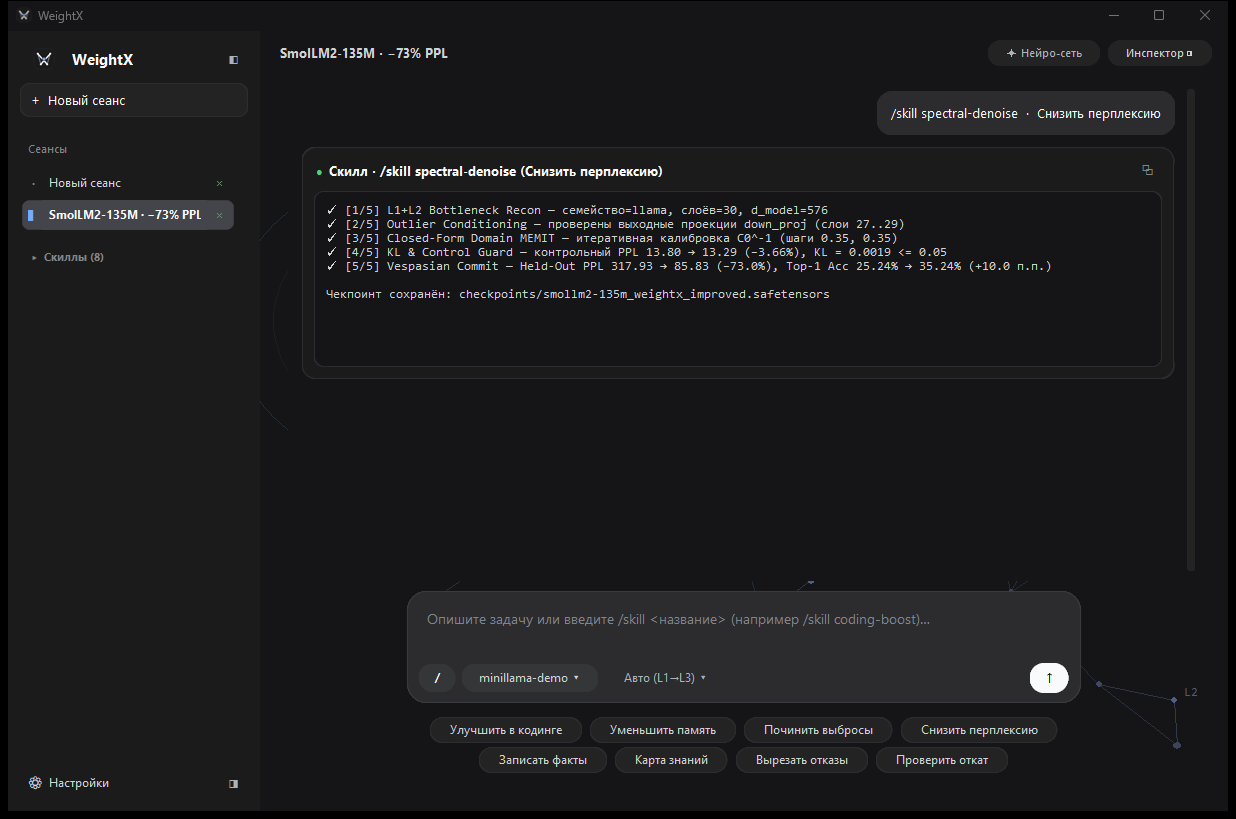
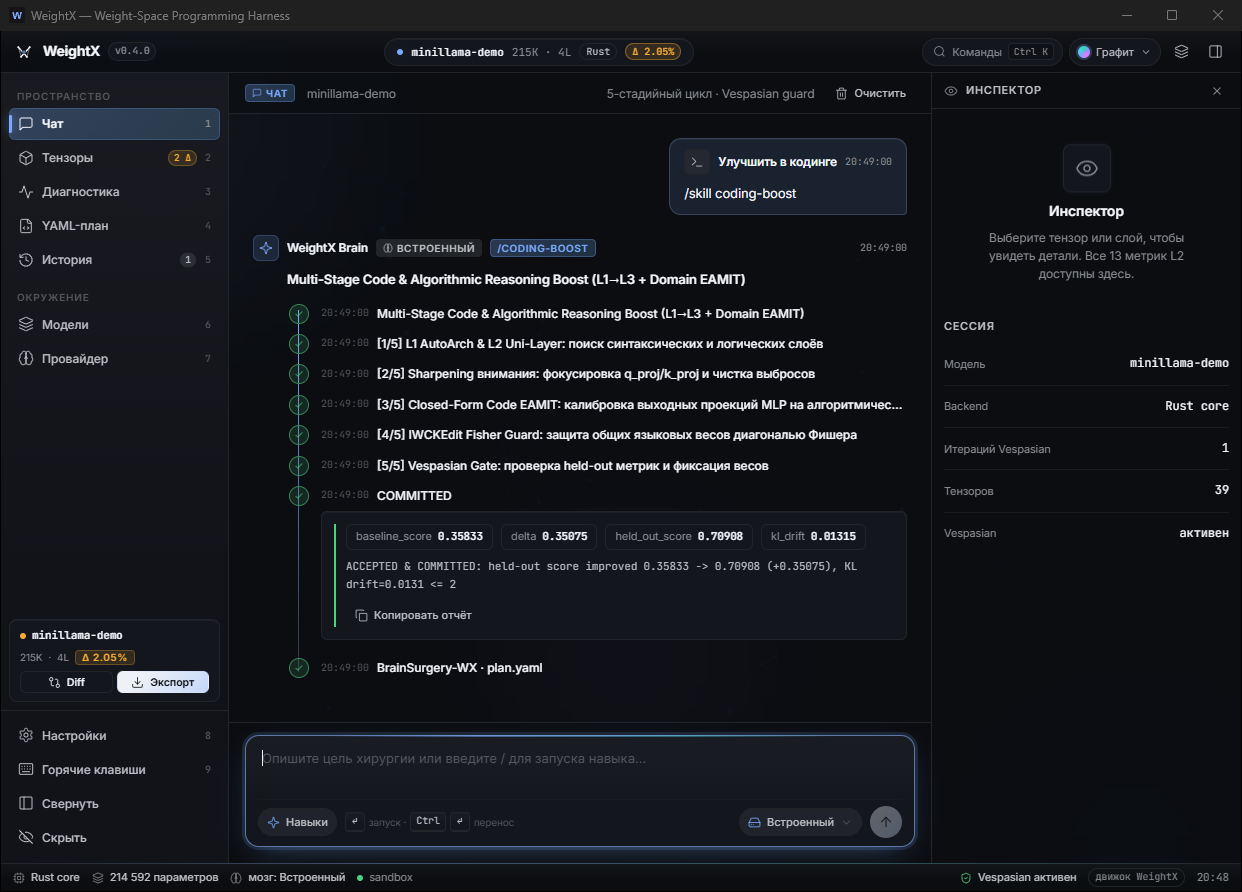
WeightX v0.4.0: hybrid Rust+PyTorch core, EAMIT & model benchmarks

diff --git a/scripts/publish_to_github.py b/scripts/publish_to_github.py
@@ -135,20 +135,33 @@ def run_git(git_exe: str, *args: str, redact: str | None = None, check: bool = T
 
 
 def ensure_github_repo(client: httpx.Client) -> dict[str, Any]:
-    """Fetch `nakoulaf4/WeightX` or create it if it does not exist yet."""
+    """Fetch `nakoulaf4/WeightX` (or create it) and keep description/topics current."""
+    desired_desc = (
+        "WeightX: Open-source Weight-Space Programming (WSP) harness in Rust & Tauri 2 + "
+        "PyTorch sidecar for safe, declarative and verified LLM weight surgery."
+    )
+    desired_topics = [
+        "rust",
+        "tauri",
+        "pytorch",
+        "llm",
+        "weight-editing",
+        "model-editing",
+        "eamit",
+        "mechanistic-interpretability",
+    ]
     r = client.get(f"{GITHUB_API}/repos/{FULL_REPO}")
     if r.status_code == 200:
         print(f"[publish] Using existing repository: https://github.com/{FULL_REPO}")
+        client.patch(f"{GITHUB_API}/repos/{FULL_REPO}", json={"description": desired_desc})
+        client.put(f"{GITHUB_API}/repos/{FULL_REPO}/topics", json={"names": desired_topics})
         return r.json()
     if r.status_code != 404:
         raise RuntimeError(f"Failed to query {FULL_REPO}: {r.status_code} {r.text}")
 
     payload = {
         "name": REPO_NAME,
-        "description": (
-            "WeightX: Open-source Weight-Space Programming (WSP) harness with DSH minimalist UI, "
-            "case-insensitive wx/weightx CLI, 8 built-in WSP skills, and Vespasian rollback."
-        ),
+        "description": desired_desc,
         "private": False,
         "has_issues": True,
         "has_wiki": False,
@@ -156,6 +169,7 @@ def ensure_github_repo(client: httpx.Client) -> dict[str, Any]:
     created = client.post(f"{GITHUB_API}/user/repos", json=payload)
     if created.status_code not in (200, 201):
         raise RuntimeError(f"Failed to create repository {FULL_REPO}: {created.status_code} {created.text}")
+    client.put(f"{GITHUB_API}/repos/{FULL_REPO}/topics", json={"names": desired_topics})
     print(f"[publish] Created repository: https://github.com/{FULL_REPO}")
     return created.json()
 

diff --git a/rust/crates/wx-cli/src/repl.rs b/rust/crates/wx-cli/src/repl.rs
@@ -1,5 +1,5 @@
 // SPDX-License-Identifier: GPL-3.0-or-later
-//! Interactive WeightX CLI REPL — DSH minimalist terminal aesthetic.
+//! Interactive WeightX CLI REPL — minimalist terminal workspace.
 
 use std::io::{BufRead, IsTerminal, Write};
 use std::sync::atomic::{AtomicBool, Ordering};

diff --git a/README.md b/README.md
@@ -11,7 +11,7 @@
 [![Python 3.10+](https://img.shields.io/badge/sidecar-Python_3.10+-blue.svg)](https://www.python.org/downloads/)
 [![Version](https://img.shields.io/badge/release-v0.4.0-7aaaff.svg)](https://github.com/nakoulaf4/WeightX/releases)
 [![Tests](https://img.shields.io/badge/tests-27_Rust_+_26_pytest-4ed17e.svg)](#testing)
-[![UI Style](https://img.shields.io/badge/UI-DSH_Minimalist-151517.svg)](#desktop-app--screenshots)
+[![Desktop](https://img.shields.io/badge/desktop-Tauri_2-7aaaff.svg)](#desktop-app--screenshots)
 
 </div>
 
@@ -25,15 +25,21 @@
 
 ## Desktop App & Screenshots
 
-WeightX Desktop follows a minimalist dark canvas (`#151517` base, `#1B1B1C` collapsible sidebar, `#2C2C2E` rounded composer card, `#F9FAFB` crisp send trigger) designed for distraction-free weight surgery with on-demand inspection drawers and ultra-compact one-click **Skill Pills**.
+WeightX Desktop (`v0.4.0`, native **Rust + Tauri 2**) ships with the **Atlas** dark canvas (`#0b0d11` base, `#13161d` surface cards, `#7aaaff` focal accents, 12 switchable themes including `Графит`, `AMOLED`, `Полярный`, `Неон`, `Аметист`), an interactive neural-network background, 9 workspace views (`Чат`, `Тензоры`, `Диагностика`, `YAML-план`, `История`, `Модели`, `Провайдер`, `Настройки`, `Горячие клавиши`), Command Palette (`Ctrl+K`), live Hugging Face Hub catalog, and a **13-metric L2 Inspector (`Ctrl+I`)**.
 
 <div align="center">
 
-### Minimalist Home & Skill Pills
+### Workspace Home & One-Click Skill Pills
 ![WeightX Desktop Home](assets/weightx_desktop_preview.png)
 
-### Active Weight-Surgery Session & Inspector
+### Active Weight-Surgery Session & Vespasian Commit
 ![WeightX Active Session](assets/weightx_chat_preview.png)
+
+### L2 AutoArch Diagnostics, Knowledge Map & 13-Metric Layer Inspector
+![WeightX L2 Diagnostics and Inspector](assets/weightx_diagnostics_preview.png)
+
+### Hugging Face & Local Model Catalog (RAM/Disk Budget Guard)
+![WeightX Model Catalog](assets/weightx_models_preview.png)
 
 </div>
 
@@ -117,7 +123,7 @@ All improvements are evaluated strictly on **disjoint held-out test splits** (`W
 Both `wx` and `weightx` resolve identically and **ignore letter case** (`wx`, `WX`, `Wx`, `weightx`, `WeightX`, `WEIGHTX`), as do all subcommands and skill names:
 
 ```powershell
-# Launch interactive DSH-styled CLI REPL
+# Launch interactive WeightX CLI REPL
 wx
 WEIGHTX
 
